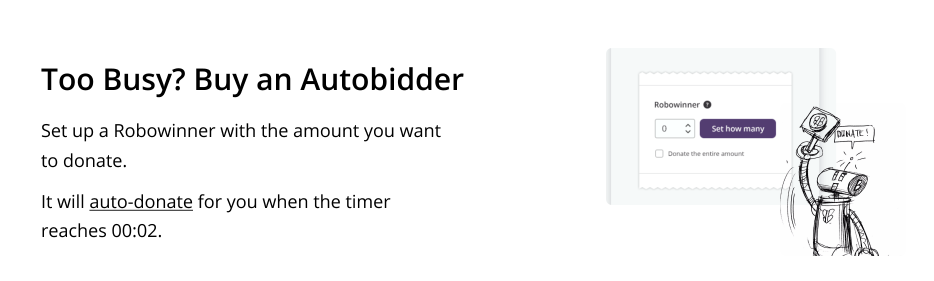
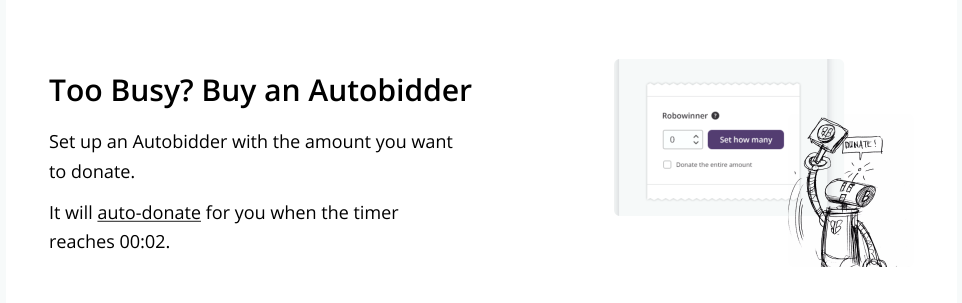
bonbids images change

diff --git a/bonbids.html b/bonbids.html
@@ -244,7 +244,7 @@
       </div>
     </div>
     <!--SECOND COMPETITOR SECTION-->
-    <div class="section-padding-change">
+    <div class="section">
       <p>
         We then researched what leading onboarding processes consisted of to determine how we might integrate the practices into the Bonbids onboarding process, focusing on the challenges we were seeking to solve:
       </p>
@@ -287,7 +287,7 @@
         who had made an online donation to their children's school within the last year.
       </p>
       <p>Through our user research we identified 3 key themes that caused users to experience frustrations during the onboarding process:
-      </p>
+      </p><br /><br />
       <ol>
 
         <li>User-centricity & personalization </li>
@@ -493,7 +493,7 @@
       </div>
       <div class="image-description">
         <p>
-          "Robowinner" changed to "Autobidder"
+          "Robowinner" used in the original design changed to "Autobidder"
         </p>
       </div>
       <br /><br />

diff --git a/css/main.css b/css/main.css
@@ -130,23 +130,22 @@ ul, ol {
 
 ul {
   list-style-type: disc;
+  padding-bottom:1rem;
 
 }
 
-#body ol {
+#body ol, ul{
   padding-left: 3rem;
 }
 #body li {
-  padding-left: 1rem;
+  padding-left: .5rem;
 }
+
 ol {
   list-style-type: decimal;
-}
-
-li {
-  padding-bottom: .8rem;
 
 }
+
 a{
   text-decoration: none;
 }

diff --git a/css/bonbids.css b/css/bonbids.css
@@ -9,7 +9,7 @@
 }
 .bonbid-bullet-ol {
   padding-bottom: .5rem;
-  padding-left:2rem;
+  padding-left:1rem;
 }
 
 
